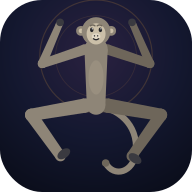
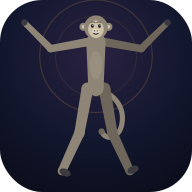
Add growth/posture, muscle and stamina exercises + 3 new routines (Unnati, Balam, Urja)

Changed region(s): [[0.0938, 0.0625, 0.9062, 0.9375]]

diff --git a/index.html b/index.html
@@ -378,7 +378,7 @@ function monkeySVG(p, opt) {
   const sway = Math.sin(t * Math.PI * 2) * 8;
   let s = '';
   if (opt.ground) s += `<ellipse cx="${g.hip[0].toFixed(0)}" cy="${FLOOR + 2}" rx="78" ry="9" fill="rgba(0,0,0,.32)"/>`;
-  s += `<g transform="translate(${g.hip[0].toFixed(1)},${g.hip[1].toFixed(1)}) rotate(${sway.toFixed(1)})"><path d="M0 0 C 30 4, 62 26, 58 68 C 55 98, 26 106, 14 84" fill="none" stroke="${F_FUR}" stroke-width="9" stroke-linecap="round"/><circle cx="14" cy="84" r="5.5" fill="${F_FUR_D}"/></g>`;
+  s += `<g transform="translate(${g.hip[0].toFixed(1)},${g.hip[1].toFixed(1)}) rotate(${sway.toFixed(1)})${side ? ' scale(-1,1)' : ''}"><path d="M0 0 C 26 6, 52 28, 46 62 C 42 88, 18 94, 10 76" fill="none" stroke="${F_FUR}" stroke-width="9" stroke-linecap="round"/><circle cx="10" cy="76" r="5.5" fill="${F_FUR_D}"/></g>`;
   s += limbSVG(g.legR, 21, 15, F_FUR_D, true);
   s += limbSVG(g.armR, 15, 10, F_FUR_D, false);
   s += bone(g.hip, g.shoulder, 27, 34, F_FUR);
@@ -490,6 +490,86 @@ function swing(t) {
   return P({ hip: [200 + 34 * s, 236], torso: 180 + 16 * s, handL: [188, 40], handR: [212, 40], footL: [200 + 70 * s, 386], footR: [200 + 70 * s, 386], kneeL: [200 + 40 * s, 320], kneeR: [200 + 40 * s, 320], lateral: 8 });
 }
 
+/* ---- Growth & posture ---- */
+function activehang(t) {
+  const u = (1 - Math.cos(2 * Math.PI * t)) / 2;
+  const hy = 236 - 10 * u;
+  return P({ hip: [200, hy], torso: 180, handL: [190, 40], handR: [210, 40], footL: [197, hy + 154], footR: [203, hy + 154], kneeL: [197, hy + 80], kneeR: [203, hy + 80], lateral: 15 });
+}
+function sidestretch(t) {
+  const u = (1 - Math.cos(2 * Math.PI * t)) / 2;
+  return P({ hip: [200, 234], torso: 180 + 24 * u, handL: [190, 300], handR: [200 - 78 * u, 74 - 6 * u], elbowL: [186, 246], elbowR: [180 - 44 * u, 156], footL: [192, 388], footR: [208, 388], headOff: -8 * u, lateral: 15 });
+}
+function calfraise(t) {
+  const u = (1 - Math.cos(2 * Math.PI * t)) / 2;
+  const up = 21 * u;
+  return P({ hip: [200, 234 - up], torso: 180, handL: [176, 280 - up], handR: [224, 280 - up], footL: [192, 388 - up], footR: [208, 388 - up], kneeL: [192, 330 - up], kneeR: [208, 330 - up], lateral: 15 });
+}
+function superman(t) {
+  const u = (1 - Math.cos(2 * Math.PI * t)) / 2;
+  const lift = 26 * u;
+  return P({ hip: [188, 360], torso: 96, handL: [394, 350 - lift], handR: [394, 350 - lift], footL: [34, 378 - lift * 0.6], footR: [34, 378 - lift * 0.6], elbowL: [330, 352], elbowR: [330, 352], kneeL: [110, 372 - lift * 0.3], kneeR: [110, 372 - lift * 0.3], headOff: -20, lateral: 5 });
+}
+function bridge(t) {
+  const u = (1 - Math.cos(2 * Math.PI * t)) / 2;
+  const hy = 332 - 22 * u;
+  const hip = [200, hy], sh = [hip[0] - 58, 386];
+  const torso = Math.atan2(sh[0] - hip[0], sh[1] - hip[1]) / R;
+  return P({ hip, torso, handL: [166, 394], handR: [166, 394], footL: [272, 388], footR: [272, 388], elbowL: [168, 390], elbowR: [168, 390], kneeL: [252, 336], kneeR: [252, 336], headOff: -24, lateral: 5 });
+}
+
+/* ---- Muscle ---- */
+function squat(t) {
+  const u = (1 - Math.cos(2 * Math.PI * t)) / 2;
+  const hy = 234 + 72 * u, hip = [200, hy], torso = 180 - 22 * u;
+  const sh = [hip[0] + Math.sin(torso * R) * 82, hip[1] + Math.cos(torso * R) * 82];
+  return P({ hip, torso, handL: [sh[0] + 96 * u, sh[1] + 112 - 102 * u], handR: [sh[0] + 96 * u, sh[1] + 112 - 102 * u], footL: [200, 388], footR: [200, 388], kneeL: [238, hy + 40], kneeR: [238, hy + 40], elbowL: [sh[0] + 60 * u, sh[1] + 70], elbowR: [sh[0] + 60 * u, sh[1] + 70], lateral: 5 });
+}
+function lunge(t) {
+  const u = (1 - Math.cos(2 * Math.PI * t)) / 2;
+  const hy = 286 + 44 * u;
+  return P({ hip: [200, hy], torso: 180 - 6 * u, handL: [196, hy + 30], handR: [196, hy + 30], footL: [272, 388], footR: [110, 388], elbowL: [214, hy + 6], elbowR: [214, hy + 6], kneeL: [266, hy + 40], kneeR: [186, 382], lateral: 5 });
+}
+function mountain(t) {
+  const p = 2 * Math.PI * t, a = Math.max(0, Math.sin(p)), b = Math.max(0, -Math.sin(p));
+  return P({ hip: [212, 308], torso: 118, handL: [288, 400], handR: [288, 400], footL: [80 + 150 * a, 384 - 46 * a], footR: [80 + 150 * b, 384 - 46 * b], elbowL: [250, 336], elbowR: [250, 336], kneeL: [196 + 40 * a, 350 - 40 * a], kneeR: [196 + 40 * b, 350 - 40 * b], headOff: -8, lateral: 5 });
+}
+function wallsit(t) {
+  const u = (1 - Math.cos(2 * Math.PI * t)) / 2;
+  const hy = 292 + 6 * u;
+  return P({ hip: [200, hy], torso: 180, handL: [262, hy + 20], handR: [262, hy + 20], footL: [266, 388], footR: [266, 388], elbowL: [238, hy + 8], elbowR: [238, hy + 8], kneeL: [266, hy], kneeR: [266, hy], lateral: 5 });
+}
+function legraise(t) {
+  const u = (1 - Math.cos(2 * Math.PI * t)) / 2;
+  const ang = (88 + 62 * u) * R;
+  const kx = 180 + 77 * Math.sin(ang), ky = 372 + 77 * Math.cos(ang);
+  return P({ hip: [180, 372], torso: 270, handL: [124, 384], handR: [124, 384], footL: [180 + 154 * Math.sin(ang), 372 + 154 * Math.cos(ang)], footR: [180 + 154 * Math.sin(ang), 372 + 154 * Math.cos(ang)], kneeL: [kx, ky], kneeR: [kx, ky], headOff: 0, lateral: 5 });
+}
+
+/* ---- Stamina ---- */
+function jj(t) {
+  const u = (1 - Math.cos(2 * Math.PI * t)) / 2;
+  return P({ hip: [200, 234 - 14 * u], torso: 180, handL: [176 - 40 * u, 280 - 240 * u], handR: [224 + 40 * u, 280 - 240 * u], footL: [192 - 52 * u, 388 - 4 * u], footR: [208 + 52 * u, 388 - 4 * u], kneeL: [200 - 46 * u, 350], kneeR: [200 + 46 * u, 350], lateral: 15 });
+}
+const SQUATJUMP = keysAnim([
+  [0, P({})],
+  [0.34, squatPose(300, [222, 392])],
+  [0.62, P({ hip: [200, 202], torso: 182, handL: [178, 44], handR: [178, 44], footL: [196, 366], footR: [196, 366], kneeL: [196, 320], kneeR: [196, 320], lateral: 5 })],
+  [1, P({})]
+]);
+function starjump(t) {
+  const u = (1 - Math.cos(2 * Math.PI * t)) / 2;
+  return P({ hip: [200, 234 - 20 * u], torso: 180, handL: [176 - 100 * u, 280 - 180 * u], handR: [224 + 100 * u, 280 - 180 * u], footL: [192 - 52 * u, 388 - 28 * u], footR: [208 + 52 * u, 388 - 28 * u], kneeL: [200 - 54 * u, 350], kneeR: [200 + 54 * u, 350], lateral: 15 });
+}
+function box(t) {
+  const p = 2 * Math.PI * t, a = Math.max(0, Math.sin(p)), b = Math.max(0, -Math.sin(p));
+  return P({ hip: [200, 236], torso: 180 + 7 * Math.sin(p), handL: [200 - 46, 198 - 74 * a], handR: [200 + 46, 198 - 74 * b], elbowL: [200 - 52, 222], elbowR: [200 + 52, 222], footL: [188, 388], footR: [212, 388], kneeL: [188, 346], kneeR: [212, 346], lateral: 15 });
+}
+function highknee(t) {
+  const p = 2 * Math.PI * t, l = Math.max(0, Math.sin(p)), r = Math.max(0, -Math.sin(p));
+  return P({ hip: [200, 234 - 6 * Math.abs(Math.sin(p))], torso: 180, footL: [200 + 90 * l, 388 - 60 * l], footR: [200 + 90 * r, 388 - 60 * r], kneeL: [200 + 96 * l, 330 - 70 * l], kneeR: [200 + 96 * r, 330 - 70 * r], handL: [206 + 50 * l, 226], handR: [196 + 50 * r, 246], lateral: 6 });
+}
+
 /* ---- Surya Namaskar (side view) ---- */
 const SURYA = [
   P({ hip: [200, 234], torso: 180, handL: [208, 198], handR: [208, 198], footL: [200, 388], footR: [200, 388], elbowL: [224, 182], elbowR: [224, 182], lateral: 5 }),
@@ -533,7 +613,22 @@ const EXERCISES = {
   hang: { label: 'Dead Hang', anim: hang, view: 'front', bar: true },
   kneeup: { label: 'Knees to Chest', anim: kneeup, view: 'side', bar: true, arrows: [{ a: [316, 300], b: [316, 214], both: true }] },
   swing: { label: 'Jerky Swings', anim: swing, view: 'front', bar: true, arrows: [{ a: [92, 300], b: [172, 300], both: true }] },
-  hipyoga: { label: 'Hip Yoga Flow', anim: seqAnim(HIP), view: 'front', ground: true }
+  hipyoga: { label: 'Hip Yoga Flow', anim: seqAnim(HIP), view: 'front', ground: true },
+  activehang: { label: 'Active Hang', anim: activehang, view: 'front', bar: true, arrows: [{ a: [266, 184], b: [266, 112], both: true }] },
+  sidestretch: { label: 'Standing Side Stretch', anim: sidestretch, view: 'front', ground: true, arrows: [{ a: [292, 196], b: [292, 120], both: true }] },
+  calfraise: { label: 'Calf Raises', anim: calfraise, view: 'front', ground: true, arrows: [{ a: [258, 306], b: [258, 222], both: true }] },
+  superman: { label: 'Superman', anim: superman, view: 'side', ground: true, arrows: [{ a: [150, 348], b: [150, 302], both: true }] },
+  bridge: { label: 'Bridge', anim: bridge, view: 'side', ground: true, arrows: [{ a: [200, 300], b: [200, 352], both: true }] },
+  squat: { label: 'Squats', anim: squat, view: 'side', ground: true, arrows: [{ a: [332, 300], b: [332, 222], both: true }] },
+  lunge: { label: 'Lunges', anim: lunge, view: 'side', ground: true, arrows: [{ a: [332, 300], b: [332, 226], both: true }] },
+  mountain: { label: 'Mountain Climbers', anim: mountain, view: 'side', ground: true },
+  wallsit: { label: 'Wall Sit', anim: wallsit, view: 'side', ground: true, wall: true, arrows: [{ a: [330, 292], b: [330, 226], both: true }] },
+  legraise: { label: 'Leg Raises', anim: legraise, view: 'side', ground: true, arrows: [{ a: [300, 300], b: [300, 226], both: true }] },
+  jj: { label: 'Jumping Jacks', anim: jj, view: 'front', ground: true, arrows: [{ a: [300, 268], b: [300, 190], both: true }] },
+  squatjump: { label: 'Squat Jumps', anim: SQUATJUMP, view: 'side', ground: true, arrows: [{ a: [350, 336], b: [350, 222], both: true }] },
+  starjump: { label: 'Star Jumps', anim: starjump, view: 'front', ground: true, arrows: [{ a: [308, 268], b: [308, 190], both: true }] },
+  box: { label: 'Shadow Boxing', anim: box, view: 'front', ground: true },
+  highknee: { label: 'High Knees', anim: highknee, view: 'side', ground: true, arrows: [{ a: [336, 300], b: [336, 226], both: true }] }
 };
 
 
@@ -556,7 +651,23 @@ const CAT = {
   hang:    { name: 'Dead Hang',       dev: 'डेड हैंग',        kind: 'time',  total: 120, how: ['Grip the bar and hang with straight arms', 'Let your shoulders relax and keep breathing', 'Do not swing — just hang'] },
   kneeup:  { name: 'Knees to Chest',  dev: 'घुटने से छाती',   kind: 'reps',  total: 10,  rep: 3.0, how: ['Hang from the bar with straight arms', 'Lift both knees up toward your chest', 'Lower slowly, without swinging'] },
   swing:   { name: 'Jerky Swings',    dev: 'झूला',            kind: 'reps',  total: 10,  rep: 2.4, how: ['Hang from the bar', 'Swing your legs gently from side to side', 'Keep it small and controlled'] },
-  hipyoga: { name: 'Hip Yoga Flow',   dev: 'कूल्हा योग',      kind: 'steps', rounds: 1, stepTime: 25, steps: HIP_STEPS, how: ['Ease into each pose — never force it', 'Breathe slowly into the hips', 'Hold until the tone changes'] }
+  hipyoga: { name: 'Hip Yoga Flow',   dev: 'कूल्हा योग',      kind: 'steps', rounds: 1, stepTime: 25, steps: HIP_STEPS, how: ['Ease into each pose — never force it', 'Breathe slowly into the hips', 'Hold until the tone changes'] },
+
+  activehang: { name: 'Active Hang',    dev: 'सक्रिय हैंग',    kind: 'time',  total: 30, how: ['Hang from the bar with straight arms', 'Pull your shoulders DOWN, away from your ears', 'Stay long and keep breathing'] },
+  sidestretch: { name: 'Side Stretch',   dev: 'बगल खिंचाव',    kind: 'reps',  total: 10,  rep: 2.4, how: ['Stand tall, feet together', 'Reach one arm up and lean over to the side', 'Feel the stretch along your side, then swap arms'] },
+  calfraise: { name: 'Calf Raises',     dev: 'पंजे उठाना',     kind: 'reps',  total: 20,  rep: 1.4, how: ['Stand tall and push up onto your toes', 'Rise as high as you can', 'Lower slowly — do not drop down'] },
+  superman: { name: 'Superman',         dev: 'सुपरमैन',        kind: 'reps',  total: 10,  rep: 2.6, how: ['Lie face down, arms stretched out in front', 'Lift your arms, chest and legs off the floor', 'Hold a moment, then lower slowly'] },
+  bridge: { name: 'Bridge',             dev: 'सेतु',          kind: 'reps',  total: 10,  rep: 2.8, how: ['Lie on your back, knees bent, feet flat', 'Push through your feet and lift your hips up', 'Squeeze, then lower slowly'] },
+  squat: { name: 'Squats',              dev: 'उठक-बैठक',       kind: 'reps',  total: 15,  rep: 2.2, how: ['Feet shoulder-width apart, chest up', 'Sit back and down, like sitting on a chair', 'Go as low as you can, then stand up tall'] },
+  lunge: { name: 'Lunges',              dev: 'लंज',           kind: 'reps',  total: 10,  rep: 2.8, how: ['Step one foot forward', 'Lower until both knees bend about 90 degrees', 'Push back up, then swap legs'] },
+  mountain: { name: 'Mountain Climbers', dev: 'पर्वत चढ़ना',    kind: 'reps',  total: 20,  rep: 1.2, how: ['Start in a plank, hands under your shoulders', 'Drive one knee up toward your chest', 'Switch legs quickly and keep your hips level'] },
+  wallsit: { name: 'Wall Sit',          dev: 'दीवार बैठक',     kind: 'time',  total: 30, how: ['Back flat against the wall', 'Slide down until your thighs are level', 'Hold it — keep your knees over your ankles'] },
+  legraise: { name: 'Leg Raises',       dev: 'पैर उठाना',      kind: 'reps',  total: 12,  rep: 2.4, how: ['Lie on your back with your legs straight', 'Keep your lower back down and lift your legs', 'Lower slowly — do not let them drop'] },
+  jj: { name: 'Jumping Jacks',          dev: 'जंपिंग जैक',     kind: 'reps',  total: 30,  rep: 1.0, how: ['Start with your feet together and arms down', 'Jump the feet out and the arms up', 'Jump back to the start'] },
+  squatjump: { name: 'Squat Jumps',     dev: 'कूद बैठक',       kind: 'reps',  total: 10,  rep: 2.6, how: ['Squat down', 'Explode up and jump as high as you can', 'Land softly and go straight into the next one'] },
+  starjump: { name: 'Star Jumps',       dev: 'सितारा कूद',     kind: 'reps',  total: 15,  rep: 1.6, how: ['Stand tall with your arms by your sides', 'Jump and spread arms and legs wide like a star', 'Land soft and back to the start'] },
+  box: { name: 'Shadow Boxing',         dev: 'छाया मुक्केबाज़ी', kind: 'reps', total: 30,  rep: 0.8, how: ['Hands up near your chin', 'Punch forward, one hand at a time', 'Stay light on your feet and keep moving'] },
+  highknee: { name: 'High Knees',       dev: 'ऊँचे घुटने',     kind: 'reps',  total: 40,  rep: 0.6, how: ['Run on the spot', 'Drive each knee up to hip height', 'Pump your arms and stay quick'] }
 };
 
 const svg = (p) => '<svg viewBox="0 0 24 24" fill="none" stroke="currentColor" stroke-width="1.7" stroke-linecap="round" stroke-linejoin="round">' + p + '</svg>';
@@ -568,6 +679,9 @@ const ICON = {
   upper: svg('<path d="M7 8.5v7M17 8.5v7M3.5 10.5v3M20.5 10.5v3M7 12h10"/>'),
   surya: svg('<circle cx="12" cy="12" r="4.2"/><path d="M12 2.4v2.3M12 19.3v2.3M2.4 12h2.3M19.3 12h2.3M5.3 5.3l1.6 1.6M17.1 17.1l1.6 1.6M18.7 5.3l-1.6 1.6M6.9 17.1l-1.6 1.6"/>'),
   hips: svg('<path d="M12 3.8c2.5 3.1 2.5 6.4 0 9.2-2.5-2.8-2.5-6.1 0-9.2z"/><path d="M3.4 12.6c1.9-2.5 4.8-3.1 7.2-1.7M20.6 12.6c-1.9-2.5-4.8-3.1-7.2-1.7"/><path d="M3.9 13c1 4.1 4.3 6.7 8.1 6.7s7.1-2.6 8.1-6.7"/>'),
+  unnati: svg('<path d="M12 20.5V5"/><path d="M5.5 11.5 12 5l6.5 6.5"/><path d="M5.5 20.5h13"/>'),
+  balam: svg('<path d="M12 3l7 3v6.2c0 4.1-3 6.9-7 9.1-4-2.2-7-5-7-9.1V6z"/><path d="M9.2 12.2l2 2 3.6-3.8"/>'),
+  urja: svg('<path d="M12 3c3.4 3.6 5.2 6.4 5.2 9.4a5.2 5.2 0 0 1-10.4 0c0-1.6.6-2.9 1.7-4 .2 1.7 1 2.7 2 2.9-.4-2.8.2-5.2 1.5-8.3z"/>'),
   medal: '<svg viewBox="0 0 24 24" fill="none" stroke="currentColor" stroke-width="1.6" stroke-linecap="round" stroke-linejoin="round"><path d="M8.5 2.5 11 8.4M15.5 2.5 13 8.4"/><circle cx="12" cy="15" r="6"/><path d="M12 12l.95 1.9 2.1.3-1.52 1.48.36 2.09L12 16.79l-1.89.98.36-2.09L8.95 14.2l2.1-.3z" fill="currentColor" stroke="none"/></svg>'
 };
 const ROUTINES = [
@@ -575,7 +689,10 @@ const ROUTINES = [
   { id: 'quick', name: 'Quick Power',    dev: 'तेज़ अभ्यास',   icon: 'quick', desc: 'A short burst — perfect before school.', steps: [['jog', { total: 150 }], ['skip', { total: 150 }], ['surya', { rounds: 5 }], 'pushup', 'burpee'] },
   { id: 'upper', name: 'Veer Upper Body', dev: 'वीर अभ्यास',   icon: 'upper', desc: 'Arms, shoulders and a strong grip.', steps: ['pushup', 'dand', 'pullup', 'hang', 'kneeup', 'swing'] },
   { id: 'surya', name: 'Surya & Cardio', dev: 'सूर्य अभ्यास',  icon: 'surya', desc: 'Warm-up, Surya Namaskar, then a cardio finish.', steps: ['jog', 'skip', 'surya', 'burpee', 'hipyoga'] },
-  { id: 'hips',  name: 'Hips & Calm',    dev: 'शांति अभ्यास',  icon: 'hips', desc: 'Open the hips, breathe, and unwind.', steps: [['jog', { total: 80 }], 'hipyoga', ['hang', { total: 60 }]] }
+  { id: 'hips',  name: 'Hips & Calm',    dev: 'शांति अभ्यास',  icon: 'hips', desc: 'Open the hips, breathe, and unwind.', steps: [['jog', { total: 80 }], 'hipyoga', ['hang', { total: 60 }]] },
+  { id: 'unnati', name: 'Unnati · Growth', dev: 'उन्नति',        icon: 'unnati', desc: 'Hanging, stretching and posture work — stand taller.', steps: ['activehang', 'sidestretch', 'calfraise', 'superman', 'bridge', 'hipyoga'] },
+  { id: 'balam', name: 'Balam · Muscle',  dev: 'बलम',          icon: 'balam', desc: 'Bodyweight strength for legs, core and arms.', steps: ['squat', 'lunge', 'mountain', 'wallsit', 'legraise', 'pushup', 'pullup'] },
+  { id: 'urja',  name: 'Urja · Stamina',  dev: 'ऊर्जा',         icon: 'urja', desc: 'Get the heart pumping and the lungs working.', steps: ['jj', 'highknee', 'starjump', 'squatjump', 'box', 'skip', 'burpee'] }
 ];
 
 /* ---------- helpers ---------- */
@@ -640,7 +757,8 @@ function setBG(st) {
       ? '<circle cx="200" cy="40" r="12" fill="#5b6488"/><circle cx="200" cy="40" r="5" fill="#7f8bb0"/>'
       : '<line x1="70" y1="40" x2="330" y2="40" stroke="#5b6488" stroke-width="11" stroke-linecap="round"/><line x1="96" y1="40" x2="96" y2="2" stroke="#5b6488" stroke-width="9"/><line x1="304" y1="40" x2="304" y2="2" stroke="#5b6488" stroke-width="9"/>';
   } else {
-    bgLayer.innerHTML = '<ellipse cx="200" cy="404" rx="120" ry="13" fill="rgba(242,169,59,.08)"/><line x1="24" y1="406" x2="376" y2="406" stroke="rgba(255,255,255,.13)" stroke-width="3" stroke-linecap="round"/>';
+    bgLayer.innerHTML = (ex.wall ? '<line x1="170" y1="130" x2="170" y2="404" stroke="rgba(255,255,255,.18)" stroke-width="6" stroke-linecap="round"/>' : '') +
+      '<ellipse cx="200" cy="404" rx="120" ry="13" fill="rgba(242,169,59,.08)"/><line x1="24" y1="406" x2="376" y2="406" stroke="rgba(255,255,255,.13)" stroke-width="3" stroke-linecap="round"/>';
   }
   arrowLayer.innerHTML = arrowsSVG(ex.arrows);
 }
@@ -783,7 +901,7 @@ function paintMute() { muteBtn.innerHTML = muted ? ICON.soundOff : ICON.soundOn;
 muteBtn.addEventListener('click', () => { muted = !muted; localStorage.setItem('bajrang_mute', muted ? '1' : '0'); paintMute(); if (!muted) { initAudio(); cue.step(); } });
 paintMute();
 $('#medalIcon').innerHTML = ICON.medal;
-$('#heroPose').innerHTML = '<svg viewBox="88 177 224 246" xmlns="http://www.w3.org/2000/svg">' + monkeySVG(HIP[2], { t: 0.3, view: 'front' }) + '</svg>';
+$('#heroPose').innerHTML = '<svg viewBox="88 177 224 236" xmlns="http://www.w3.org/2000/svg">' + monkeySVG(HIP[2], { t: 0.3, view: 'front' }) + '</svg>';
 
 document.addEventListener('pointerdown', initAudio, { once: true });
 document.addEventListener('visibilitychange', () => { if (document.hidden && (phase === 'run' || phase === 'prep')) { prevPhase = phase; phase = 'paused'; } });

diff --git a/README.md b/README.md
@@ -40,14 +40,32 @@ ordinary monkey, so every pose can be copied as a movement rather than a mascot.
 | 💪 **Veer Upper Body** | Arms, shoulders and grip | ~5 min |
 | 🌅 **Surya & Cardio** | Warm-up, Surya Namaskar, cardio finish | ~12 min |
 | 🧘 **Hips & Calm** | Hip openers and gentle holding | ~4 min |
+| ⬆ **Unnati · Growth** | Hanging, stretching and posture work | ~5 min |
+| 🛡 **Balam · Muscle** | Bodyweight strength — legs, core, arms | ~4 min |
+| 🔥 **Urja · Stamina** | Heart and lungs | ~6 min |
+
+> **A note on "height gain".** No exercise makes a child taller — height is mostly set
+> by genetics, food and sleep. What the growth routine *can* do is help him stand at
+> his full height: hanging and stretching decompress the spine, and the posture work
+> (Superman, Bridge, side stretch) strengthens the back and shoulders so he does not
+> slump. Pair it with good sleep and food; the app is not a substitute for those.
 
 ## The exercises
 
-Skipping (300) · Spot Jogging (300) · Surya Namaskar (10 rounds) · Push-ups (10) ·
-Hanuman Dand (10) · Burpees (10) · Pull-ups (10) · Dead Hang (120 s) ·
+**Original set** — Skipping (300) · Spot Jogging (300) · Surya Namaskar (10 rounds) ·
+Push-ups (10) · Hanuman Dand (10) · Burpees (10) · Pull-ups (10) · Dead Hang (120 s) ·
 Knees to Chest, hanging (10) · Jerky Swings (10) · Hip Yoga Flow
 (Baddha Konasana · Butterfly, Malasana · Deep Squat, Utkata Konasana · Goddess,
 Skandasana · Side Lunge, Upavistha Konasana · Wide Angle, Prasarita · Standing Wide).
+
+**Growth & posture** — Active Hang (30 s) · Standing Side Stretch (10) ·
+Calf Raises (20) · Superman (10) · Bridge (10).
+
+**Muscle** — Squats (15) · Lunges (10) · Mountain Climbers (20) · Wall Sit (30 s) ·
+Leg Raises (12).
+
+**Stamina** — Jumping Jacks (30) · High Knees (40) · Star Jumps (15) ·
+Squat Jumps (10) · Shadow Boxing (30).
 
 ## Using it
 
